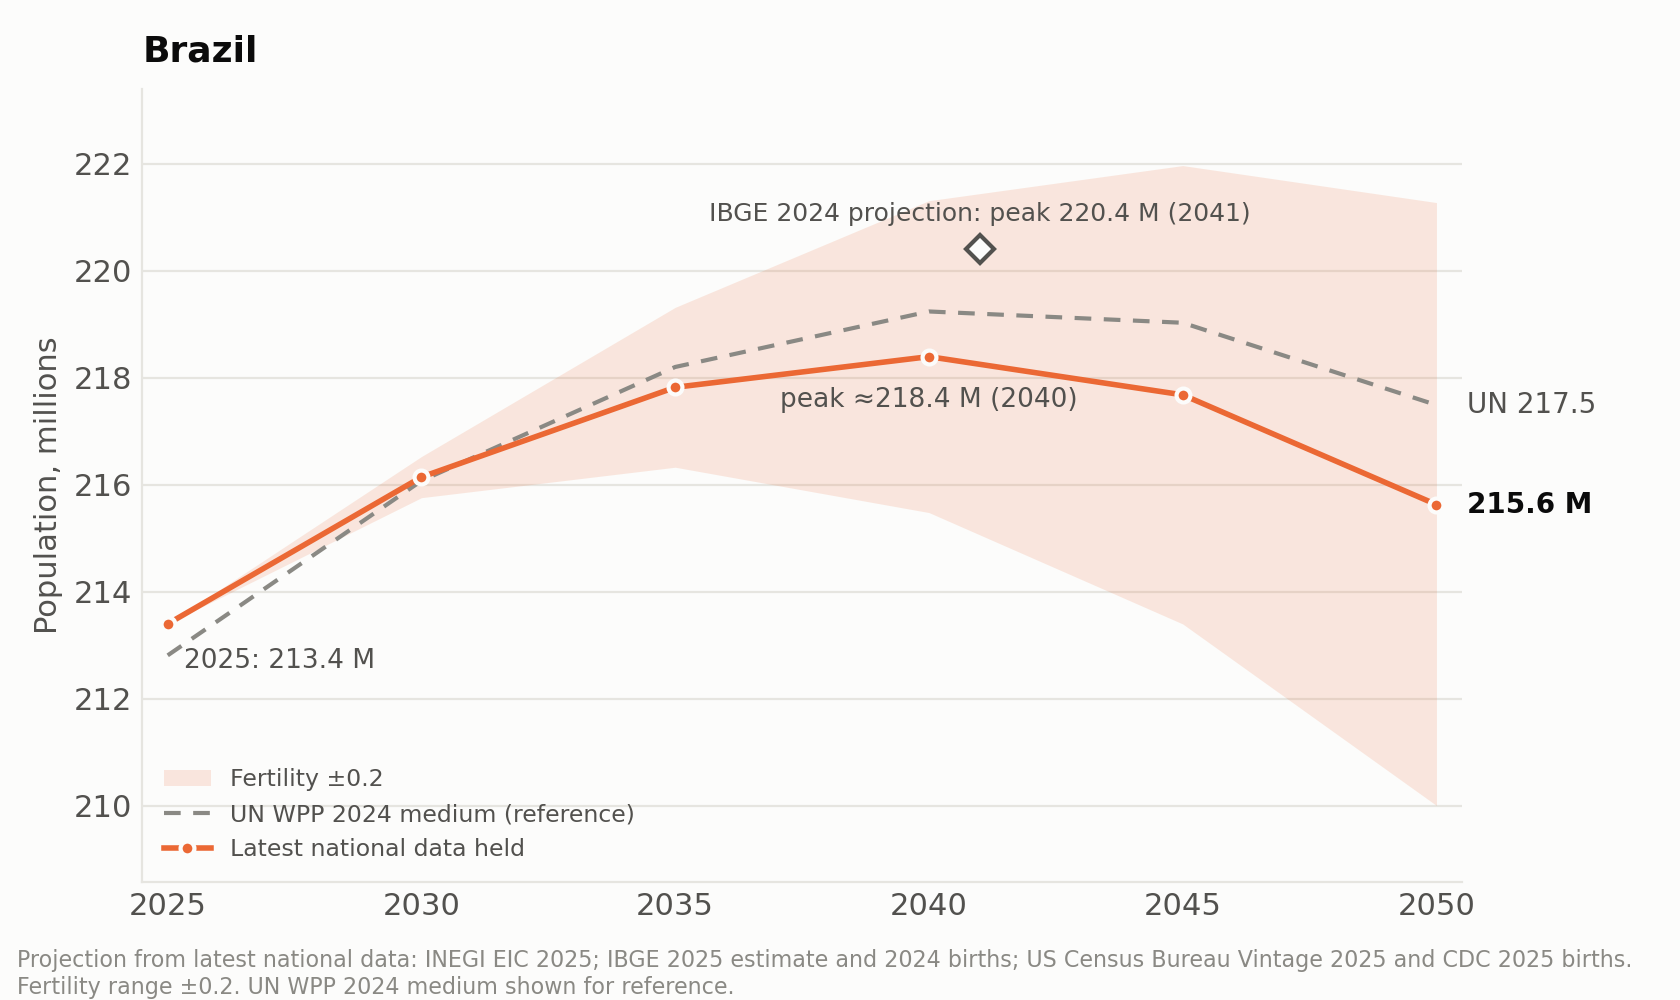
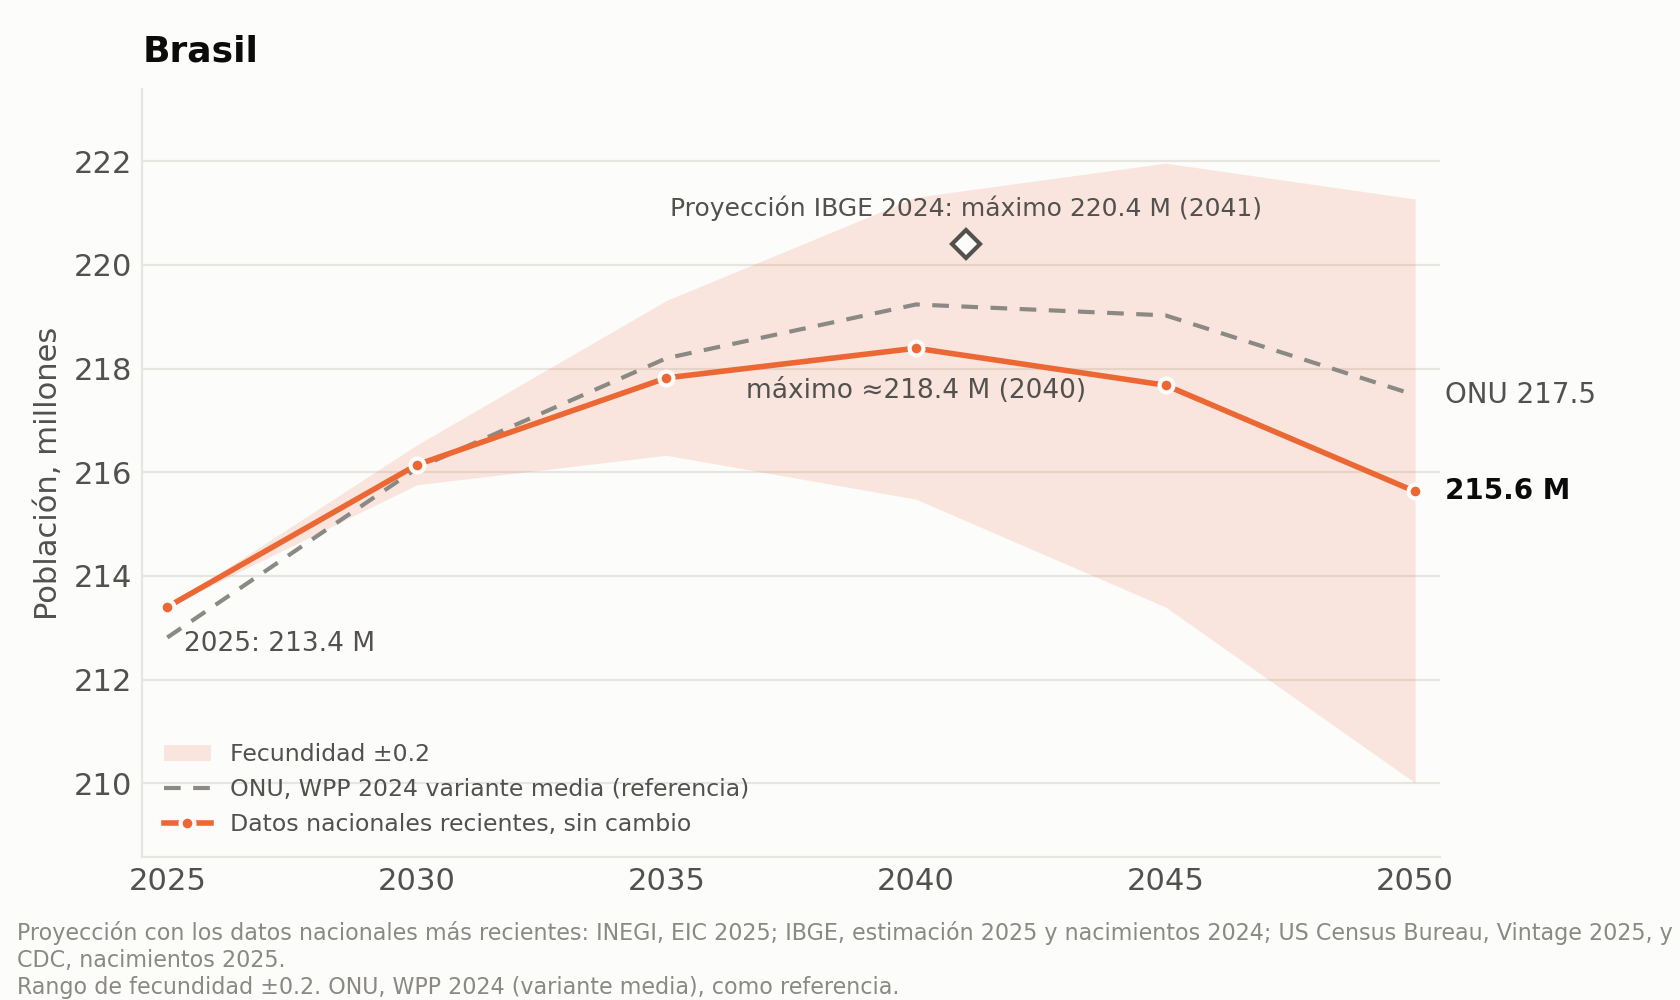
doc(DFD): population charts labelled in Spanish
Titles, legends, in-chart labels and source line of the five PNGs now in
Spanish (country names México, Brasil, Estados Unidos); source line
wrapped so it no longer runs off the overview.

diff --git a/GrandPlan/DFD/outputs/public/2026-10_population_mex_bra_usa/charts_observed.py b/GrandPlan/DFD/outputs/public/2026-10_population_mex_bra_usa/charts_observed.py
@@ -1,4 +1,4 @@
-"""charts_observed.py — draw the figures from results/projections.csv (run projection_observed.py first).
+"""charts_observed.py — draw the figures (labels in Spanish) from results/projections.csv (run projection_observed.py first).
 
 One chart per country (central path, fertility range, UN medium as a reference line), an index
 comparison (2025 = 100, central paths) and a 2x2 overview. Palette: dataviz reference
@@ -16,9 +16,10 @@ RES, FIG = os.path.join(HERE, "results"), os.path.join(HERE, "figures")
 COLORS = {"Mexico": "#2a78d6", "Brazil": "#eb6834", "United States": "#1baf7a"}
 INK, INK2, MUTED, GRID, SURFACE, REF = "#0b0b0b", "#52514e", "#8a8984", "#e6e5e0", "#fcfcfb", "#8a8984"
 # National statistics office figures shown as reference markers (sources in README)
-NATIONAL_REF = {"Brazil": (2041, 220.4, "IBGE 2024 projection: peak 220.4 M (2041)")}
-SRC = ("Projection from latest national data: INEGI EIC 2025; IBGE 2025 estimate and 2024 births; US Census Bureau "
-       "Vintage 2025 and CDC 2025 births. Fertility range ±0.2. UN WPP 2024 medium shown for reference.")
+NATIONAL_REF = {"Brazil": (2041, 220.4, "Proyección IBGE 2024: máximo 220.4 M (2041)")}
+ES = {"Mexico": "México", "Brazil": "Brasil", "United States": "Estados Unidos"}
+SRC = ("Proyección con los datos nacionales más recientes: INEGI, EIC 2025; IBGE, estimación 2025 y nacimientos 2024; "
+       "US Census Bureau, Vintage 2025, y CDC, nacimientos 2025.\nRango de fecundidad ±0.2. ONU, WPP 2024 (variante media), como referencia.")
 
 plt.rcParams.update({"font.family": "DejaVu Sans", "font.size": 11, "axes.edgecolor": GRID,
                      "axes.labelcolor": INK2, "xtick.color": INK2, "ytick.color": INK2,
@@ -58,14 +59,14 @@ def country(ax, d, name):
     c = COLORS[name]
     x, cen = ser(d[(name, "central")]); _, lo = ser(d[(name, "low")]); _, hi = ser(d[(name, "high")])
     ux, un = ser(d[(name, "un_medium")])
-    ax.fill_between(x, lo, hi, color=c, alpha=0.15, linewidth=0, label="Fertility ±0.2")
-    ax.plot(ux, un, color=REF, linewidth=1.5, linestyle=(0, (4, 3)), label="UN WPP 2024 medium (reference)")
+    ax.fill_between(x, lo, hi, color=c, alpha=0.15, linewidth=0, label="Fecundidad ±0.2")
+    ax.plot(ux, un, color=REF, linewidth=1.5, linestyle=(0, (4, 3)), label="ONU, WPP 2024 variante media (referencia)")
     ax.plot(x, cen, color=c, linewidth=2, marker="o", markersize=5, markeredgecolor=SURFACE, markeredgewidth=1.5,
-            label="Latest national data held")
-    items = [(cen[-1], f"{cen[-1]:.1f} M", INK, "bold"), (un[-1], f"UN {un[-1]:.1f}", INK2, "normal")]
+            label="Datos nacionales recientes, sin cambio")
+    items = [(cen[-1], f"{cen[-1]:.1f} M", INK, "bold"), (un[-1], f"ONU {un[-1]:.1f}", INK2, "normal")]
     if (name, "central_mig_1M") in d:
         mx, mv = ser(d[(name, "central_mig_1M")])
-        ax.plot(mx, mv, color=c, linewidth=1.5, linestyle=(0, (1, 2)), label="Net migration 1 M/yr instead of 321k")
+        ax.plot(mx, mv, color=c, linewidth=1.5, linestyle=(0, (1, 2)), label="Migración neta de 1 M/año en vez de 321 mil")
         items.append((mv[-1], f"{mv[-1]:.1f}", INK2, "normal"))
     if name in NATIONAL_REF:
         ry, rv, rt = NATIONAL_REF[name]
@@ -75,15 +76,15 @@ def country(ax, d, name):
     ax.annotate(f"{x[0]}: {cen[0]:.1f} M", (x[0], cen[0]), xytext=(6, -16), textcoords="offset points",
                 fontsize=9.5, color=INK2)
     if 0 < pk < len(cen) - 1:
-        ax.annotate(f"peak ≈{cen[pk]:.1f} M ({x[pk]})", (x[pk], cen[pk]), xytext=(0, -18), textcoords="offset points",
+        ax.annotate(f"máximo ≈{cen[pk]:.1f} M ({x[pk]})", (x[pk], cen[pk]), xytext=(0, -18), textcoords="offset points",
                     ha="center", fontsize=9.5, color=INK2)
     allv = lo + hi + un + cen + ([v for v in d.get((name, "central_mig_1M"), {}).values()])
     if name in NATIONAL_REF: allv.append(NATIONAL_REF[name][1] + 0.6)
     span = max(allv) - min(allv); ax.set_ylim(min(allv) - span * 0.12, max(allv) + span * 0.12)
     style(ax, right_pad=0.5)
     label_ends(ax, items)
-    ax.set_title(name, loc="left", fontsize=13, fontweight="bold", pad=10, color=INK)
-    ax.set_ylabel("Population, millions")
+    ax.set_title(ES[name], loc="left", fontsize=13, fontweight="bold", pad=10, color=INK)
+    ax.set_ylabel("Población, millones")
     ax.legend(loc="lower left" if name == "Brazil" else "upper left", frameon=False, fontsize=8.5, labelcolor=INK2)
 
 
@@ -91,20 +92,20 @@ def index(ax, d):
     items = []
     for name, c in COLORS.items():
         x, v = ser(d[(name, "central")]); iv = [100 * a / v[0] for a in v]
-        ax.plot(x, iv, color=c, linewidth=2, marker="o", markersize=4, label=name)
+        ax.plot(x, iv, color=c, linewidth=2, marker="o", markersize=4, label=ES[name])
         items.append((iv[-1], f"{iv[-1]:.1f}", INK, "normal"))
     ax.axhline(100, color=MUTED, linewidth=0.8)
     style(ax, right_pad=0.5)
     lo, hi = ax.get_ylim(); ax.set_ylim(lo - 0.5, hi + 0.5)
     label_ends(ax, items)
-    ax.set_title("Growth compared (2025 = 100, central paths)", loc="left", fontsize=13, fontweight="bold", pad=10, color=INK)
-    ax.set_ylabel("Index, 2025 = 100")
+    ax.set_title("Crecimiento comparado (2025 = 100, trayectorias centrales)", loc="left", fontsize=13, fontweight="bold", pad=10, color=INK)
+    ax.set_ylabel("Índice, 2025 = 100")
     ax.legend(loc="lower left", frameon=False, fontsize=9, labelcolor=INK2)
 
 
 def save(fig, name, src_size=8):
     fig.text(0.01, 0.01, SRC, fontsize=src_size, color=MUTED, wrap=True)
-    fig.tight_layout(rect=(0, 0.045, 0.97, 1)); fig.savefig(os.path.join(FIG, name), dpi=200); plt.close(fig)
+    fig.tight_layout(rect=(0, 0.07, 0.97, 1)); fig.savefig(os.path.join(FIG, name), dpi=200); plt.close(fig)
 
 
 def main():
@@ -116,9 +117,9 @@ def main():
     fig, axs = plt.subplots(2, 2, figsize=(15, 9.6))
     for ax, name in zip(axs.flat, COLORS): country(ax, d, name)
     index(axs.flat[3], d)
-    fig.suptitle("Total population 2025–2050, if current trends hold", x=0.01, ha="left", fontsize=16, fontweight="bold", color=INK)
+    fig.suptitle("Población total 2025–2050, si se mantienen las tendencias actuales", x=0.01, ha="left", fontsize=16, fontweight="bold", color=INK)
     fig.text(0.01, 0.01, SRC, fontsize=9, color=MUTED)
-    fig.tight_layout(rect=(0, 0.03, 0.975, 0.97)); fig.savefig(os.path.join(FIG, "population_overview_2025_2050.png"), dpi=200)
+    fig.tight_layout(rect=(0, 0.045, 0.975, 0.97)); fig.savefig(os.path.join(FIG, "population_overview_2025_2050.png"), dpi=200)
     plt.close(fig)
 
 
